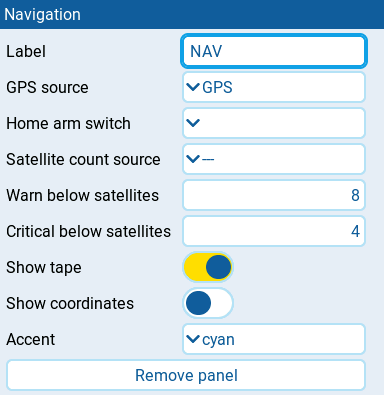
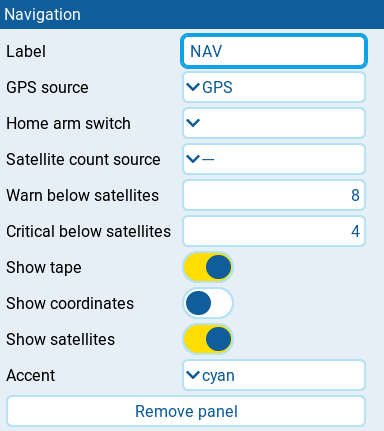
Add Navigation satellite visibility setting (#159)
Keep satellite alerts active independently of the default-on header indicator. Document the setting and refresh its native drawer capture.

diff --git a/docs/panels/navigation.md b/docs/panels/navigation.md
@@ -23,6 +23,7 @@ heading, transmitter orientation, or a return-home instruction.
 | **Show tape** | off | Replaces bearing text with a scrolling direction tape where space permits. |
 | **Bearing format** | degrees | **degrees** shows numeric azimuth; **quadrant** shows notation such as `N29°E`. Shown only when **Show tape** is off. |
 | **Show coordinates** | off | Shows the model's latitude and longitude where space permits, independently of **Show tape**. |
+| **Show satellites** | on | Shows the satellite icon and locked-satellite count in the header where space permits. Requires **Satellite count source**; turning it off does not disable satellite alerts. |
 | **Accent** | cyan | Color used for the normal state: **cyan**, **green**, **amber**, or **orange**. Alarm and stale states use the shared state colors instead. |
 
 ## Behavior
@@ -34,8 +35,11 @@ model is at home, not that GPS is unavailable.
 
 ### Satellite count and alerts
 
-**Satellite count source** enables a satellite icon and count in the header.
-The indicator is hidden when it cannot fit, but alerts remain active.
+With **Satellite count source** selected, **Show satellites** controls the
+satellite icon and locked-satellite count in the header. It defaults to on,
+including for existing layouts without this setting. Turning it off hides
+both the icon and count, not the warning, critical, missing-source, or stale
+indications. The indicator is also hidden when it cannot fit; alerts remain active.
 With no source selected, neither the indicator nor satellite alerts appear.
 The defaults make 0 critical, 4 warning, and 8 normal. Thresholds do not
 control home capture, and distance never triggers an alarm.
@@ -113,7 +117,7 @@ QR code without a network connection; following it on a phone uses Google Maps.
 | Home arm switch unreadable with a valid fix before capture | No distance or bearing; `ARM SWITCH UNAVAILABLE` or a shorter form. |
 | Stale position | Last reading retained, `STALE` badge, and `LAST KNOWN` or a shorter form where supporting text fits. |
 | Configured satellite count below a threshold | `WARN` or `CRIT` badge and state color, even while waiting for a fix or home. |
-| Configured satellite source missing or invalid | `N/A` badge and satellite count `--` when it fits. GPS readings remain available. |
+| Configured satellite source missing or invalid | `N/A` badge and satellite count `--` when **Show satellites** is on and it fits. GPS readings remain available. |
 | Configured satellite count stale | Last count retained and `STALE` badge. |
 
 Satellite critical is checked before warning, using strict less-than

diff --git a/docs/reference-guide/yaml.md b/docs/reference-guide/yaml.md
@@ -310,6 +310,7 @@ Drawer title: **Navigation** · [drawer settings and behavior](../panels/navigat
 | `showTape` | boolean | `false` | `true` / `false` | Show tape | When true, the tape is shown instead of the alternate bearing text. |
 | `bearingFormat` | string | `degrees` | `degrees`, `quadrant` | Bearing format | Drawer hides this while `showTape` is true; it remains a valid YAML setting. |
 | `showCoordinates` | boolean | `false` | `true` / `false` | Show coordinates | |
+| `showSatellites` | boolean | `true` | `true` / `false` | Show satellites | Controls the header icon and locked count when `satelliteSource` is set and space permits; satellite alerts remain active when false. Omitted values preserve the enabled default. |
 | `accent` | string | `cyan` | `cyan`, `green`, `amber`, `orange` | Accent | |
 
 Cross-field and format rules:

diff --git a/plans/aerogrid-spec.md b/plans/aerogrid-spec.md
@@ -297,6 +297,10 @@ belong to the panel.
 #### Navigation
 
 - Accept a GPS source.
+- `showSatellites` defaults to true, including when omitted from saved layouts.
+  With a satellite count source selected, it controls the header icon and locked
+  count where space permits. Turning it off does not disable satellite alerts,
+  missing-source indications, or staleness detection.
 - Use current and pilot coordinates returned by an EdgeTX GPS source to calculate distance and the initial bearing from the home/pilot position toward the model.
 - Calculate distance and bearing from the GPS and home positions.
 - Render direction as an absolute north-up bearing or compass arrow from home to model. Aircraft heading and transmitter orientation are not required and must not rotate this arrow.

diff --git a/plans/aerogrid-design-guide.md b/plans/aerogrid-design-guide.md
@@ -238,6 +238,11 @@ maximum range. A list's entry drawer follows the same flow; its add action follo
 entries and its remove action comes last. This order is declared by the panel metadata,
 and the editor moves Label to the front automatically.
 
+Navigation's **Show satellites** belongs with the display options and defaults
+to on. It controls only the header icon and locked count; a configured satellite
+source continues to drive alerts even when the indicator is disabled or shed
+for space. With no satellite source selected, the toggle has no visual effect.
+
 ### Alert states tint the surface; they do not draw a frame
 
 A warning or critical state tints the panel's fill. It does not colour its border.
